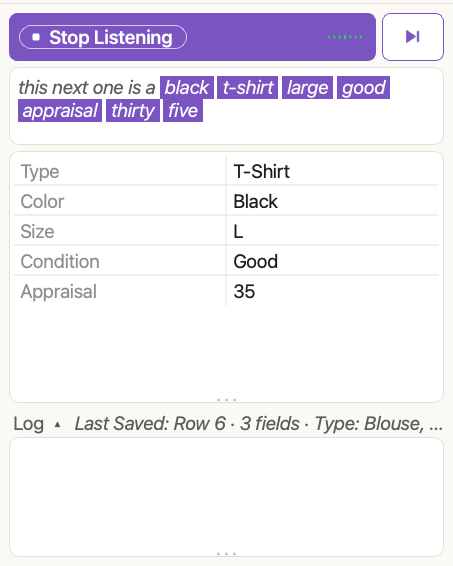
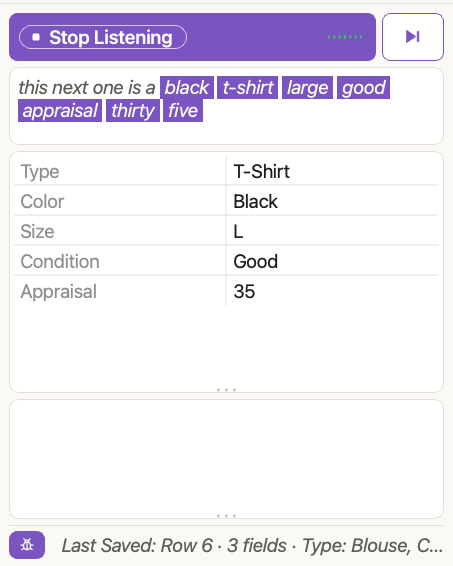
feat(ui): window footer with a bug button for the log (selected while the log is open)

Changed region(s): [[0.0309, 0.6908, 0.989, 0.7809], [0.0, 0.9011, 0.989, 0.9912]]

diff --git a/quill/ui/main_window.py b/quill/ui/main_window.py
@@ -32,6 +32,7 @@ from PySide6.QtCore import (
 )
 from PySide6.QtGui import QColor, QFontMetrics, QTextBlockFormat, QTextCharFormat, QTextCursor, QTextOption
 from PySide6.QtWidgets import (
+    QFrame,
     QMenu,
     QGraphicsOpacityEffect,
     QHBoxLayout,
@@ -66,7 +67,7 @@ from quill.ui.theme import install_backdrop, apply_spacing
 from quill.ui.side_panel import FILE_PAGE, PANEL_MAX_WIDTH, PANEL_MIN_WIDTH, PANEL_WIDTH, SidePanel, TURN_PAGE
 from quill.ui.widgets import (
     ElidedLabel,
-    HeadingToggle,
+    FooterButton,
     ListenButton,
     Pill,
     ResizeGrip,
@@ -100,8 +101,8 @@ MIN_REMEMBERED = (300, 300)  # a remembered size below this is ignored
 MIN_WINDOW = (453, 383)      # the full window never gets smaller than this, and opens at it the first time
 LOG_OPEN_HEIGHT = 120       # height of the log while it is open (until the user drags it to another)
 LOG_MIN_HEIGHT, LOG_MAX_HEIGHT = 60, 600     # how short and tall the user may drag the log
-#: Gap (px) between the "Log" heading and the log box.
-LOG_HEADING_GAP = 1
+#: Gap (px) between the log box and the footer under it.
+LOG_FOOTER_GAP = 6
 MIN_CONTENT_WIDTH = 405     # the content (everything but the side panel) is never dragged narrower than this
 
 #: Lines kept in the log before the oldest are dropped.
@@ -447,19 +448,29 @@ class MainWindow:
 
         # --- log (last). The Current Row box takes extra height when the window grows (and shares it with
         # the log while that is open), so no gaps open between sections and "Log" stays at the bottom.
-        self.log_toggle = self._section_toggle("Show or hide the log.")
-        footer_row = QHBoxLayout()                          # "Log" on the left, the last saved row on the right
+        # The window's footer sits below everything, log included: icon buttons of one size on the left (the bug opens and closes
+        # the log; others can join it), the last saved row on the right.
+        self.log_toggle = FooterButton("bug", "Show the log")
+        self.log_toggle.toggled.connect(self._log_button_toggled)        # (toggled, not clicked: an accessibility "press" only toggles)
+        self.footer = QFrame()
+        self.footer.setObjectName("windowFooter")
+        self.footer.setProperty("keepMargins", True)
+        footer_row = QHBoxLayout(self.footer)
+        footer_row.setContentsMargins(0, 5, 0, 0)
+        footer_row.setSpacing(6)
+        footer_row.setProperty("keepSpacing", True)
         footer_row.addWidget(self.log_toggle, 0, Qt.AlignmentFlag.AlignLeft)
+        footer_row.addSpacing(4)
         footer_row.addWidget(self.last_label, 1)
         self.log = QTextEdit()                # (not the plain-text kind: it can hang a long line's wrap under the message)
         self.log.setReadOnly(True)
         self.log.document().setUndoRedoEnabled(False)
         log_block = QVBoxLayout()                           # the heading sits close to its box, in either spacing
         log_block.setContentsMargins(0, 0, 0, 0)
-        log_block.setSpacing(LOG_HEADING_GAP)
+        log_block.setSpacing(LOG_FOOTER_GAP)
         log_block.setProperty("keepSpacing", True)
-        log_block.addLayout(footer_row)
         log_block.addWidget(self.log)
+        log_block.addWidget(self.footer)
         layout.addLayout(log_block)
         self.log_grip = ResizeGrip(central)         # drag the bottom edge of the log: it and the window grow or shrink together
         self.log_grip.dragged.connect(self._log_grip_dragged)
@@ -482,6 +493,7 @@ class MainWindow:
             self.set_mini(True)
         else:
             self._refresh_visibility()
+            self._set_margins(False)                           # (the footer is the last thing: a small margin follows it)
         self.set_listening_indicator(False)
         fill_missing_tips(window)
         fill_missing_tips(self.panel.settings)
@@ -841,8 +853,8 @@ class MainWindow:
             self._log_bottom_margin()
 
     def _log_bottom_margin(self) -> None:
-        """With the log minimized "Log" is the last thing in the window: only a small margin may follow it."""
-        if self._log_collapsed and not self._view_mini and self._window is not None:
+        """The footer is the last thing in the window: only a small margin may follow it."""
+        if not self._view_mini and self._window is not None:
             m = self._layout.contentsMargins()
             self._layout.setContentsMargins(m.left(), m.top(), m.right(), LOG_BOTTOM_MARGIN)
 
@@ -1034,7 +1046,7 @@ class MainWindow:
         self.toggle_button.set_compact(self._view_mini)
         self.mini_button.setVisible(not self._native_mini_button)           # the title bar has its own
         self.settings_button.setVisible(full and not self._native_settings_button)
-        self.log_toggle.setVisible(full)
+        self.footer.setVisible(full)
         detail = full or self._mini_detail                                   # the mini view shows them only when tall
         self.stream.setVisible(detail)
         self.row_table.setVisible(detail)
@@ -1062,11 +1074,11 @@ class MainWindow:
         self._keep_minimum()
         self.sorting_button.setToolTip("Term Helper: terms that were heard but not placed yet.")
 
-    def _section_toggle(self, tip: str) -> HeadingToggle:
-        button = HeadingToggle()
-        button.setToolTip(tip)
-        button.clicked.connect(lambda: self._set_collapsed("log", not self._log_collapsed, notify=True))
-        return button
+    def _log_button_toggled(self, selected: bool) -> None:
+        """The footer's bug button was switched (a click, or an accessibility press): open or close the log to match. A switch the
+        window made itself (it already agrees) changes nothing."""
+        if selected != (not self._log_collapsed):
+            self._set_collapsed("log", not selected, notify=True)
 
     # ------------------------------------------------------------------ #
     # Remembering the size                                                 #
@@ -1181,8 +1193,9 @@ class MainWindow:
             self._close_log(window)
         else:
             self._open_log(window)
-        self.log_toggle.setText(f"Log  {'▾' if collapsed else '▴'}")
+        self.log_toggle.setChecked(not collapsed)                 # selected while the log is open
         self.log_toggle.setToolTip("Show the log" if collapsed else "Hide the log")
+        self.log_toggle.setAccessibleName("Show the log" if collapsed else "Hide the log")
         if notify:
             self._on_log_toggled(collapsed)
 
@@ -1653,6 +1666,7 @@ class MainWindow:
         self.panel.set_colors(text_color, accent)
         self.row_grip.set_color(text_color)
         self.log_grip.set_color(text_color)
+        self.log_toggle.set_colors(text_color, on_accent)
         self._render_stream()
         self.mini_button.setIcon(make_icon("maximize" if self._view_mini else "minimize", text_color, 16))
         self.mini_button.setToolTip("Back to the Full Window" if self._view_mini else "Mini View")

diff --git a/tests/test_chrome_and_layout.py b/tests/test_chrome_and_layout.py
@@ -202,20 +202,36 @@ class TestCollapsibleLog(unittest.TestCase):
         self.w.setup()
         self.w.widget.show()
 
-    def test_starts_open_with_an_up_arrow(self):
+    def test_starts_open_with_the_bug_button_selected_and_no_words(self):
         self.assertFalse(self.w.log_collapsed)
         self.assertTrue(self.w.log.isVisible())
-        self.assertIn("▴", self.w.log_toggle.text())
-        self.assertTrue(self.w.log_toggle.text().startswith("Log"))
+        self.assertTrue(self.w.log_toggle.isChecked())                 # selected while the log is open
+        self.assertEqual(self.w.log_toggle.text(), "")                  # an icon, not the word "Log"
+        self.assertFalse(self.w.log_toggle.icon().isNull())
 
     def test_clicking_the_heading_collapses_and_expands(self):
         self.w.log_toggle.click()
         self.assertTrue(self.w.log_collapsed)
         self.assertFalse(self.w.log.isVisible())
-        self.assertIn("▾", self.w.log_toggle.text())
+        self.assertFalse(self.w.log_toggle.isChecked())                # back to the plain style when the log is closed
         self.w.log_toggle.click()
         self.assertTrue(self.w.log.isVisible())
+        self.assertTrue(self.w.log_toggle.isChecked())
         self.assertEqual(self.toggled, [True, False])
+
+    def test_a_press_that_only_toggles_the_button_still_opens_and_closes_the_log(self):
+        self.w.log_toggle.toggle()                                      # what an accessibility "press" does: no click is made
+        self.assertTrue(self.w.log_collapsed)
+        self.w.log_toggle.toggle()
+        self.assertFalse(self.w.log_collapsed)
+        self.assertEqual(self.toggled, [True, False])
+
+    def test_the_menu_and_the_button_agree(self):
+        self.w.set_log_collapsed(True, notify=True)
+        self.assertFalse(self.w.log_toggle.isChecked())
+        self.w.set_log_collapsed(False, notify=True)
+        self.assertTrue(self.w.log_toggle.isChecked())
+        self.assertEqual(self.toggled, [True, False])                   # (each change was reported once)
 
     def test_the_log_keeps_collecting_while_collapsed(self):
         self.w.log_toggle.click()
@@ -228,7 +244,7 @@ class TestCollapsibleLog(unittest.TestCase):
         w.setup()
         w.widget.show()
         self.assertFalse(w.log.isVisible())
-        self.assertIn("▾", w.log_toggle.text())
+        self.assertFalse(w.log_toggle.isChecked())
 
 
 class TestLastSaved(unittest.TestCase):

diff --git a/quill/ui/icons.py b/quill/ui/icons.py
@@ -41,6 +41,10 @@ SHAPES = {
     "turn": '<g fill="none" stroke="COLOR" stroke-width="1.9" stroke-linecap="round" stroke-linejoin="round">'
             '<path d="M4 5.5h10.5a1.5 1.5 0 0 1 1.5 1.5v5a1.5 1.5 0 0 1-1.5 1.5H8.5L5.5 16v-2.5H4A1.5 1.5 0 0 1 2.5 12V7A1.5 1.5 0 0 1 4 5.5Z"/>'
             '<path d="M19 10.5h1a1.5 1.5 0 0 1 1.5 1.5v5a1.5 1.5 0 0 1-1.5 1.5h-1V21l-3-2.5h-5a1.5 1.5 0 0 1-1.5-1.5v-.5"/></g>',
+    # a bug (the log: what Quill did, and what went wrong): a head, a segmented body, six legs and two antennae
+    "bug": '<g fill="none" stroke="COLOR" stroke-width="1.9" stroke-linecap="round" stroke-linejoin="round">'
+           '<path d="M9.2 7.4a2.8 2.8 0 0 1 5.6 0"/><rect x="6.8" y="7.6" width="10.4" height="11.4" rx="5.2"/><path d="M12 7.8v11"/>'
+           '<path d="M6.8 12.2H3M17.2 12.2H21M7.3 16.8 4.2 19M16.7 16.8l3.1 2.2M9 4.6 7.2 2.8M15 4.6l1.8-1.8"/></g>',
     "gear": '<g fill="none" stroke="COLOR" stroke-width="1.8" stroke-linecap="round" stroke-linejoin="round">'
             '<path d="M12.22 2h-.44a2 2 0 0 0-2 2v.18a2 2 0 0 1-1 1.73l-.43.25a2 2 0 0 1-2 0l-.15-.08a2 2 0 0 0-2.73.73l-.22.38a2 2 0 0 0 .73 2.73l.15.1a2 2 0 0 1 1 1.72v.51a2 2 0 0 1-1 1.74l-.15.09a2 2 0 0 0-.73 2.73l.22.38a2 2 0 0 0 2.73.73l.15-.08a2 2 0 0 1 2 0l.43.25a2 2 0 0 1 1 1.73V20a2 2 0 0 0 2 2h.44a2 2 0 0 0 2-2v-.18a2 2 0 0 1 1-1.73l.43-.25a2 2 0 0 1 2 0l.15.08a2 2 0 0 0 2.73-.73l.22-.39a2 2 0 0 0-.73-2.73l-.15-.08a2 2 0 0 1-1-1.74v-.5a2 2 0 0 1 1-1.74l.15-.09a2 2 0 0 0 .73-2.73l-.22-.38a2 2 0 0 0-2.73-.73l-.15.08a2 2 0 0 1-2 0l-.43-.25a2 2 0 0 1-1-1.73V4a2 2 0 0 0-2-2z"/>'
             '<circle cx="12" cy="12" r="3"/></g>',

diff --git a/quill/ui/widgets.py b/quill/ui/widgets.py
@@ -606,6 +606,40 @@ class Pill(QLabel):
         painter.end()
 
 
+class FooterButton(QPushButton):
+    """An icon button of the window's footer. All of them are the same size; one that is *on* (its panel is open) is drawn
+    selected, in the accent colour, and goes back to the plain look when it is off.
+
+    Args:
+        icon_name: The icon (see :mod:`quill.ui.icons`).
+        tip: What it does; the words are kept off the button, so the footer can hold several.
+    """
+
+    SIZE = (36, 28)
+    ICON = 16
+
+    def __init__(self, icon_name: str, tip: str = "") -> None:
+        super().__init__()
+        self._icon_name = icon_name
+        self._colors = ("#1F1E1D", "#FFFFFF")                         # icon colour plain, and while selected (on the accent)
+        self.setProperty("footerButton", True)
+        self.setCheckable(True)
+        self.setCursor(Qt.CursorShape.PointingHandCursor)
+        self.setFixedSize(*self.SIZE)
+        self.setIconSize(QSize(self.ICON, self.ICON))
+        self.setToolTip(tip)
+        self.setAccessibleName(tip)
+        self.toggled.connect(lambda _: self._draw())
+        self._draw()
+
+    def set_colors(self, plain: str, selected: str) -> None:
+        self._colors = (plain, selected)
+        self._draw()
+
+    def _draw(self) -> None:
+        self.setIcon(make_icon(self._icon_name, self._colors[1] if self.isChecked() else self._colors[0], self.ICON))
+
+
 class HeadingToggle(QLabel):
     """A clickable heading ("Log  v"): plain text that starts exactly at the content's left edge.
 

diff --git a/quill/ui/theme.py b/quill/ui/theme.py
@@ -349,6 +349,12 @@ QLabel[countdown="true"] {{ background: transparent; color: {rgba(t['text'], 0.7
 QPushButton[accent="true"] QLabel[countdown="true"], QPushButton:checked QLabel[countdown="true"] {{ color: {rgba(t['on_accent'], 0.92)}; font-weight: 400; }}
 QPushButton[iconOnly="true"] {{ padding: 6px 9px; border-color: {t['border']}; }}
 QPushButton[outline="true"][iconOnly="true"] {{ border-color: {t['accent']}; }}
+/* The window's footer: flat icon buttons that fill with the accent while their panel is open. */
+QPushButton[footerButton="true"] {{ background: transparent; border: 1px solid transparent; border-radius: 8px; padding: 0; }}
+QPushButton[footerButton="true"]:hover {{ background: {rgba(t['text'], 0.08)}; }}
+QPushButton[footerButton="true"]:checked {{ background: {t['accent']}; border-color: {t['accent']}; }}
+QPushButton[footerButton="true"]:checked:hover {{ background: {t['accent_hover']}; border-color: {t['accent_hover']}; }}
+QFrame#windowFooter {{ background: transparent; border: none; border-top: 1px solid {t['border']}; }}
 QSlider::groove:horizontal {{ height: 4px; border-radius: 2px; background: {t['border']}; }}
 QSlider::sub-page:horizontal {{ height: 4px; border-radius: 2px; background: {t['accent']}; }}
 QSlider::handle:horizontal {{ width: 18px; height: 18px; margin: -7px 0; border-radius: 9px;

diff --git a/tests/test_side_panel_and_turns.py b/tests/test_side_panel_and_turns.py
@@ -2630,17 +2630,15 @@ class TestLogGripAndHeading(PanelApp):
         _app.processEvents()
         self.assertFalse(self.w.log_grip.isVisibleTo(self.w.widget))
 
-    def test_the_log_heading_sits_close_to_its_box_in_both_spacings(self):
-        from quill.ui.main_window import LOG_HEADING_GAP
+    def test_the_footer_sits_close_under_the_log_in_both_spacings(self):
+        from quill.ui.main_window import LOG_FOOTER_GAP
         for spacing in ("compact", "comfortable"):
             self.app.settings.preferences["spacing"] = spacing
             self.app.apply_settings(quiet=True)
             _app.processEvents()
-            gap = self.w.log.geometry().top() - self.w.log_toggle.geometry().bottom()
-            heading = self.w.log_toggle.mapTo(self.w.root, self.w.log_toggle.rect().bottomLeft()).y()
-            box = self.w.log.mapTo(self.w.root, self.w.log.rect().topLeft()).y()
-            self.assertLessEqual(box - heading, LOG_HEADING_GAP + 6, spacing)
-            self.assertIsNotNone(gap)
+            box_bottom = self.w.log.mapTo(self.w.root, self.w.log.rect().bottomLeft()).y()
+            footer_top = self.w.footer.mapTo(self.w.root, self.w.footer.rect().topLeft()).y()
+            self.assertLessEqual(footer_top - box_bottom, LOG_FOOTER_GAP + 6, spacing)
 
 
 class TestSettingsRound5(unittest.TestCase):

diff --git a/tests/test_polish.py b/tests/test_polish.py
@@ -4,7 +4,7 @@ import tempfile
 import unittest
 from unittest import mock
 
-from PySide6.QtWidgets import QApplication, QLabel, QSystemTrayIcon
+from PySide6.QtWidgets import QApplication, QLabel, QPushButton, QSystemTrayIcon
 
 from quill.config.settings import Settings
 from quill.ui import theme
@@ -162,8 +162,9 @@ class TestLogCollapseResizes(unittest.TestCase):
         self.w.log_toggle.click()
         _app.processEvents()
         window = self.w.widget
-        bottom = max(child.geometry().bottom() for child in window.centralWidget().findChildren(
-            QLabel) if child.isVisible())
+        controls = window.centralWidget().findChildren(QLabel) + window.centralWidget().findChildren(QPushButton)
+        bottom = max(child.mapTo(window.centralWidget(), child.rect().bottomLeft()).y() for child in controls
+                     if child.isVisible())                                  # (the footer's button is the last control)
         self.assertLessEqual(window.height() - bottom, 80)
 
     def test_starting_collapsed_gives_a_compact_window(self):

diff --git a/quill/help/02-spreadsheet.md b/quill/help/02-spreadsheet.md
@@ -75,8 +75,8 @@ Always the sheet that is **open** (the active tab). Quill never tries another sh
 - **File not connected**: shown inside the **Start** button, beside the play icon, while no sheet is found. Pressing **Start** then opens the **Files** panel so you can pick a file. Hover it for what to do.
 - **The box that says "Words you say appear here…"**: the words Quill hears, as you say them. Words it already knows light up as coloured pills.
 - **The row grid** under it: each known word, placed in its column as it is heard. Check it before saying "next row", and remove any line that is wrong with its round **x** (shown when you hover it).
-- **Last Saved**: the row written last, on the right of the **Log** line. It only appears after the first save.
-- **Log**: click to open a record of what happened. Each line starts with its time; a long message wraps back to where the message starts, not under the time.
+- **Last Saved**: the row written last, on the right of the footer (the strip along the bottom of the window). It only appears after the first save.
+- **The footer** holds small icon buttons that all look the same size. The **bug** button opens and closes the **Log**: it is filled with the accent colour while the Log is open and plain when it is closed (the View menu's Log entry does the same, **⌥⌘L**). The Log is a record of what happened. Each line starts with its time; a long message wraps back to where the message starts, not under the time.
 
 The window opens at the smallest size it can be (and never gets smaller). The mini view remembers its own size; if you close Quill in the mini view, it opens in the mini view again.
 

diff --git a/quill/help/06-mini-view.md b/quill/help/06-mini-view.md
@@ -16,7 +16,7 @@ A small box that floats over your spreadsheet.
 - A **Term Helper** badge with the count
 - The quiet countdown ("7s")
 
-- A red **!** when something went wrong (the Log is hidden here). Hover it to read the message; click it to return to the full window with the **Log** open. It goes away when the next row is saved.
+- A red **!** when something went wrong (the Log and its footer are hidden here). Hover it to read the message; click it to return to the full window with the **Log** open. It goes away when the next row is saved.
 
 ## 🙈 What hides
 

diff --git a/quill/help/01-welcome.md b/quill/help/01-welcome.md
@@ -33,4 +33,4 @@
 
 ## ↕ Sizing the boxes
 
-Drag the three dots at the bottom edge of the matched-words box up or down: with the **Log** open the two boxes trade height; with it hidden the window grows or shrinks. Quill remembers the log's height and the window's size.
+Drag the three dots at the bottom edge of the matched-words box up or down: with the **Log** open (the bug button in the footer is filled) the two boxes trade height; with it hidden the window grows or shrinks. Quill remembers the log's height and the window's size.
